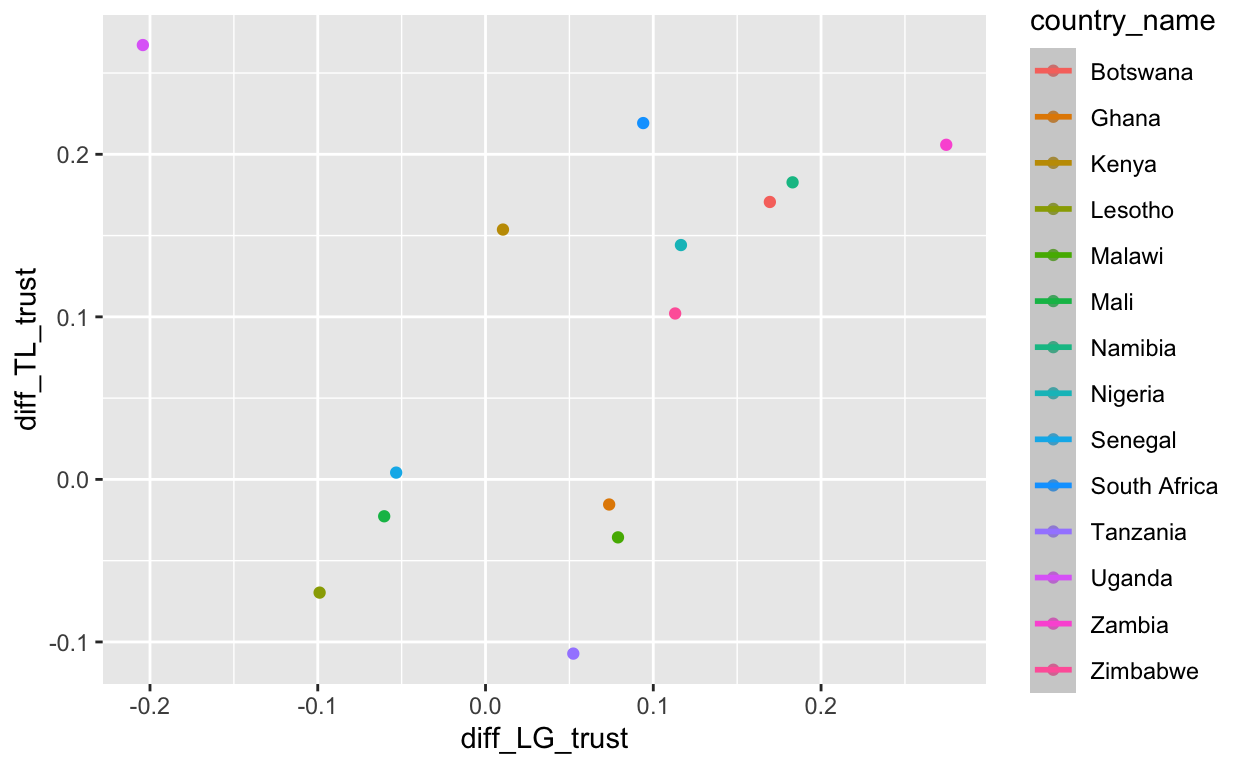
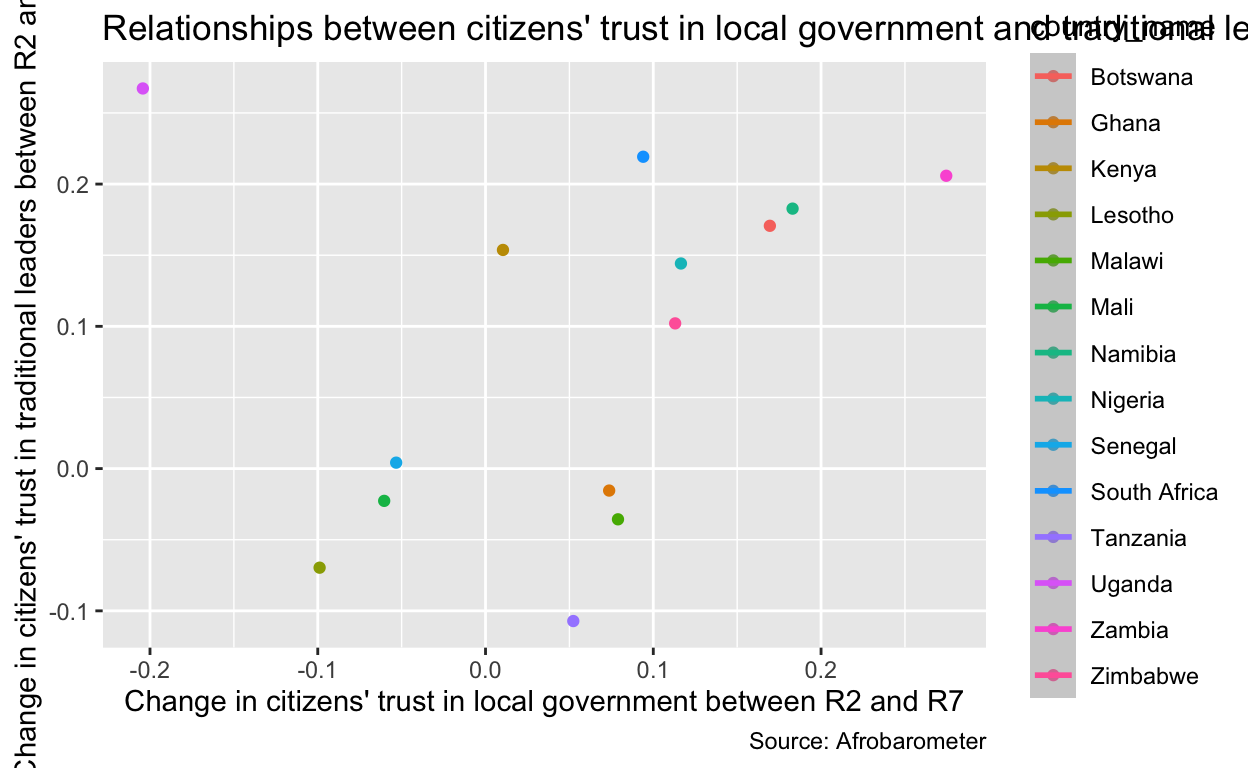
Edited interpretation

diff --git a/index.html b/index.html
@@ -1712,18 +1712,14 @@ code span.wa { color: #5e5e5e; font-style: italic; } /* Warning */
 <span>  <span class='va'>all_rounds_2_levels</span> <span class='op'>|&gt;</span></span>
 <span>  <span class='fu'><a href='https://ggplot2.tidyverse.org/reference/ggplot.html'>ggplot</a></span><span class='op'>(</span><span class='fu'><a href='https://ggplot2.tidyverse.org/reference/aes.html'>aes</a></span><span class='op'>(</span>x <span class='op'>=</span> <span class='va'>diff_LG_trust</span>, y <span class='op'>=</span> <span class='va'>diff_TL_trust</span>, color <span class='op'>=</span> <span class='va'>country_name</span><span class='op'>)</span><span class='op'>)</span> <span class='op'>+</span></span>
 <span>  <span class='fu'><a href='https://ggplot2.tidyverse.org/reference/geom_point.html'>geom_point</a></span><span class='op'>(</span><span class='op'>)</span> <span class='op'>+</span></span>
-<span>  <span class='fu'><a href='https://ggplot2.tidyverse.org/reference/geom_smooth.html'>geom_smooth</a></span><span class='op'>(</span>method <span class='op'>=</span> <span class='st'>"lm"</span><span class='op'>)</span></span>
+<span>  <span class='fu'><a href='https://ggplot2.tidyverse.org/reference/geom_smooth.html'>geom_smooth</a></span><span class='op'>(</span>method <span class='op'>=</span> <span class='st'>"lm"</span><span class='op'>)</span> <span class='op'>+</span></span>
+<span>  <span class='fu'><a href='https://ggplot2.tidyverse.org/reference/labs.html'>labs</a></span><span class='op'>(</span>x <span class='op'>=</span> <span class='st'>"Change in citizens' trust in local government between R2 and R7"</span>, y <span class='op'>=</span> <span class='st'>"Change in citizens' trust in traditional leaders between R2 and R7"</span>, title <span class='op'>=</span> <span class='st'>"Relationships between citizens' trust in local government and traditional leaders"</span>, caption <span class='op'>=</span> <span class='st'>"Source: Afrobarometer"</span><span class='op'>)</span></span>
 <span></span>
 <span><span class='va'>plot_all_rounds_2_levels</span></span></code></pre>
 </div>
 <p><img src="index_files/figure-html5/unnamed-chunk-12-1.png" width="624" /></p>
 </div>
-<div class="layout-chunk" data-layout="l-body">
-
-</div>
-<h2 id="how-to-omit-a-response-9-from-the-data.">how to omit a response “9” from the data.</h2>
-<p>filter(the variable name!=9)
-filter(LG_trust!=9)</p>
+<h2 id="interpretation-of-the-graph">Interpretation of the graph</h2>
 <div class="sourceCode" id="cb4"><pre class="sourceCode r distill-force-highlighting-css"><code class="sourceCode r"></code></pre></div>
 <!--radix_placeholder_article_footer-->
 <!--/radix_placeholder_article_footer-->
